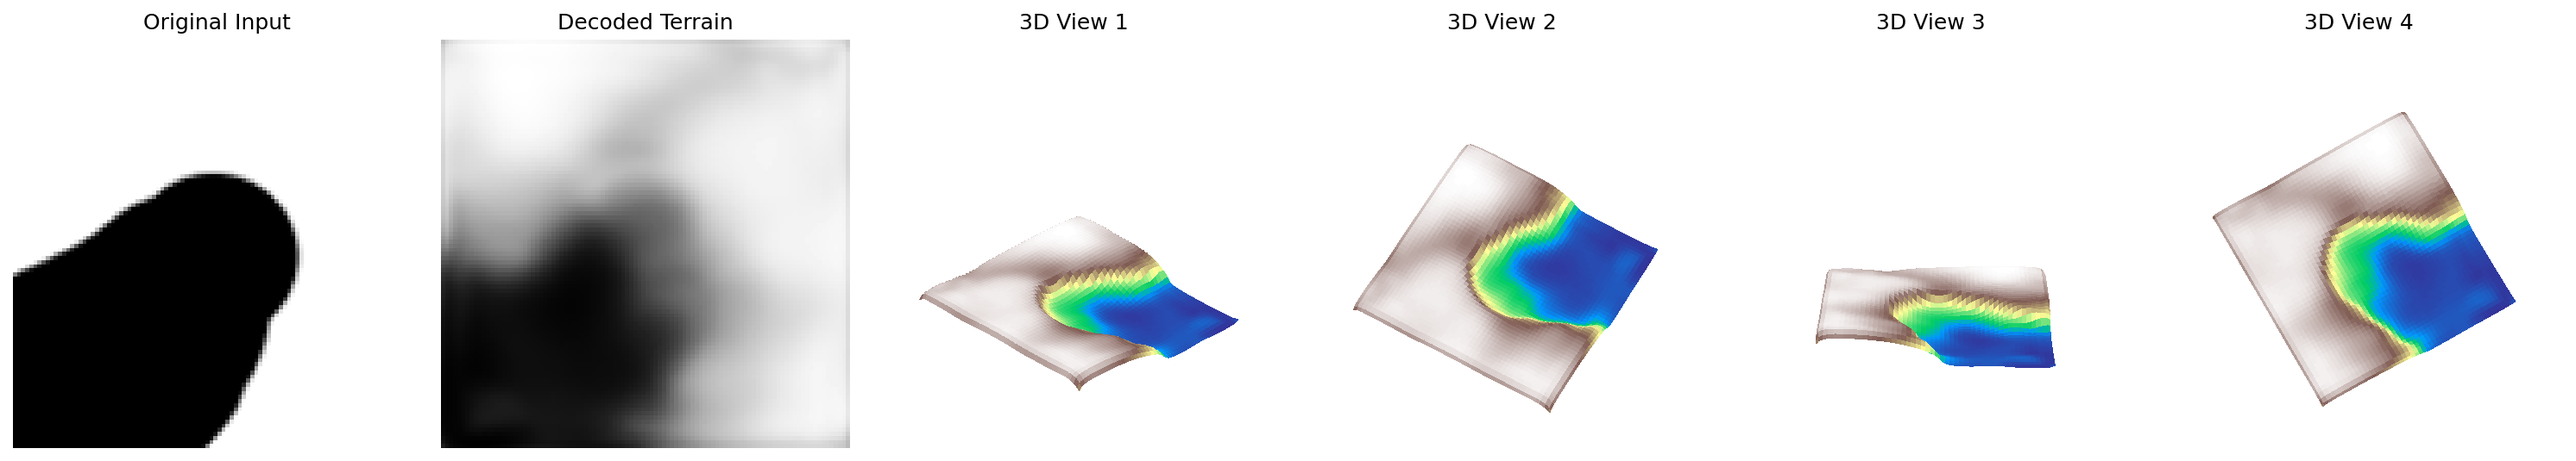
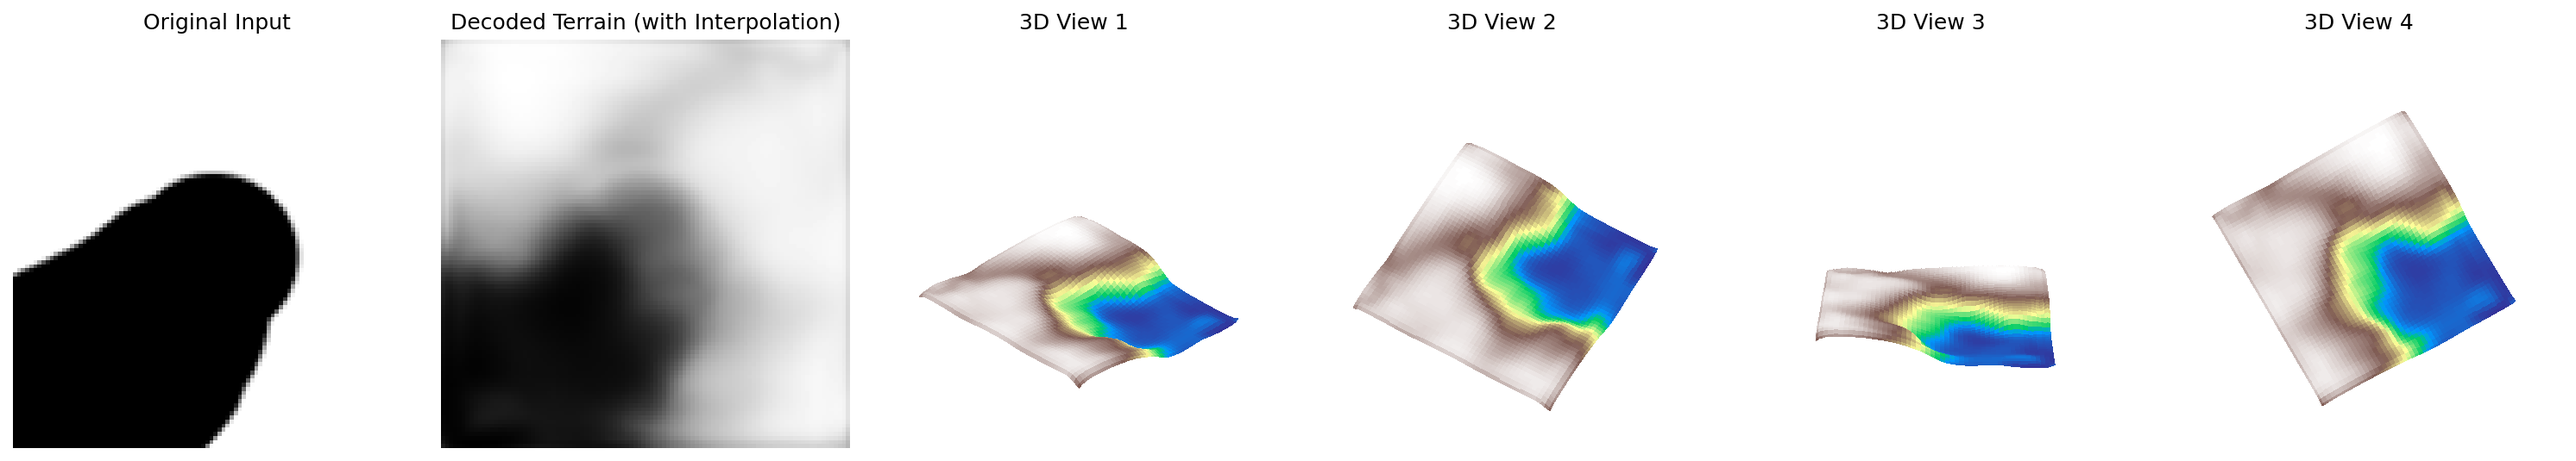
removed a visualization bug. changed the lerping coefficient

diff --git a/usage.py b/usage.py
@@ -34,7 +34,7 @@ model.load_state_dict(checkpoint["model_state_dict"])
 model.eval()
 
 # Load one input image from inputs/
-img_path = "example5.png"
+img_path = "example1.png"
 img = Image.open(os.path.join("inputs", img_path)).convert("L").resize((hpcfg.img_size, hpcfg.img_size))
 x = torch.tensor(np.array(img), dtype=torch.float32).unsqueeze(0).unsqueeze(0) / 255.0
 x = x.to(device)
@@ -57,7 +57,7 @@ x_blur = gaussian_blur(x.cpu(), BLUR_SIZE, sigma)
 recon_t = recon.unsqueeze(0).unsqueeze(0).cpu()
 
 # Interpolate between blurred input and reconstruction
-recon_mix = torch.lerp(x_blur, recon_t, 0.7).squeeze().cpu().numpy()
+recon_mix = torch.lerp(x_blur, recon_t, 0.95).squeeze().cpu().numpy()
 
 # Scale 3D heights
 recon_scaled = recon_mix * 0.2
@@ -73,8 +73,8 @@ ax1.axis('off')
 
 # 2D reconstructed
 ax2 = fig.add_subplot(1, 6, 2)
-ax2.imshow(recon, cmap='gray')
-ax2.set_title("Decoded Terrain")
+ax2.imshow(recon_mix, cmap='gray')
+ax2.set_title("Decoded Terrain (with Interpolation)")
 ax2.axis('off')
 
 # 3D views at different angles
